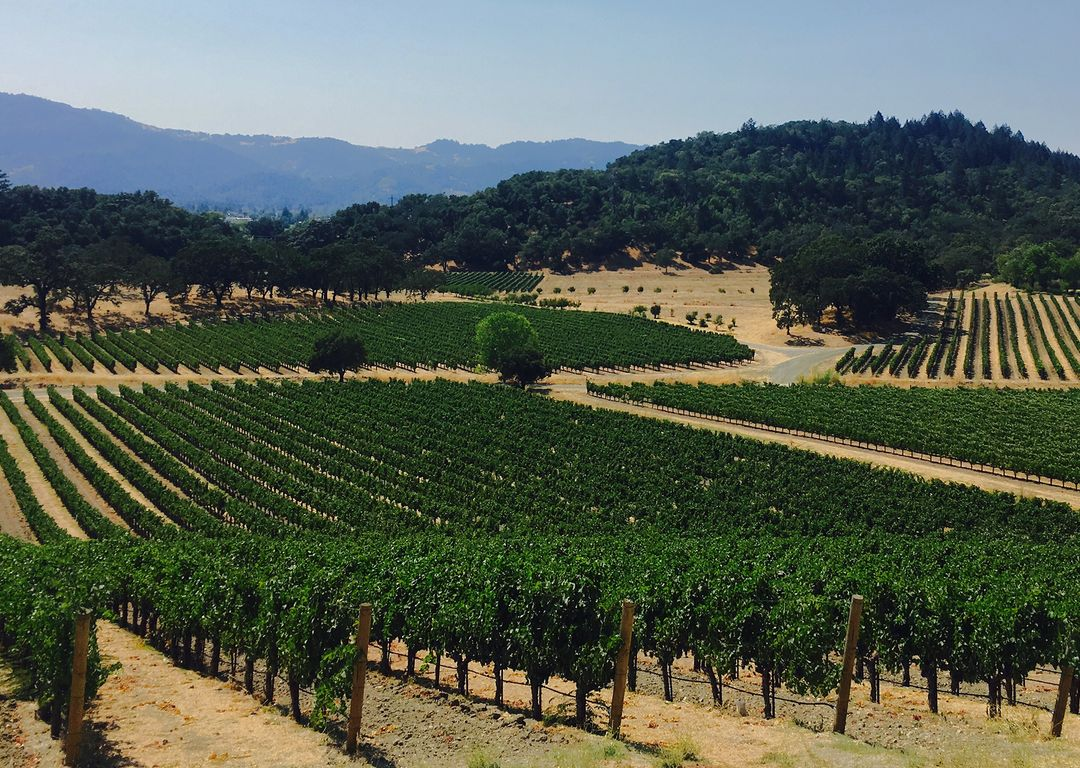
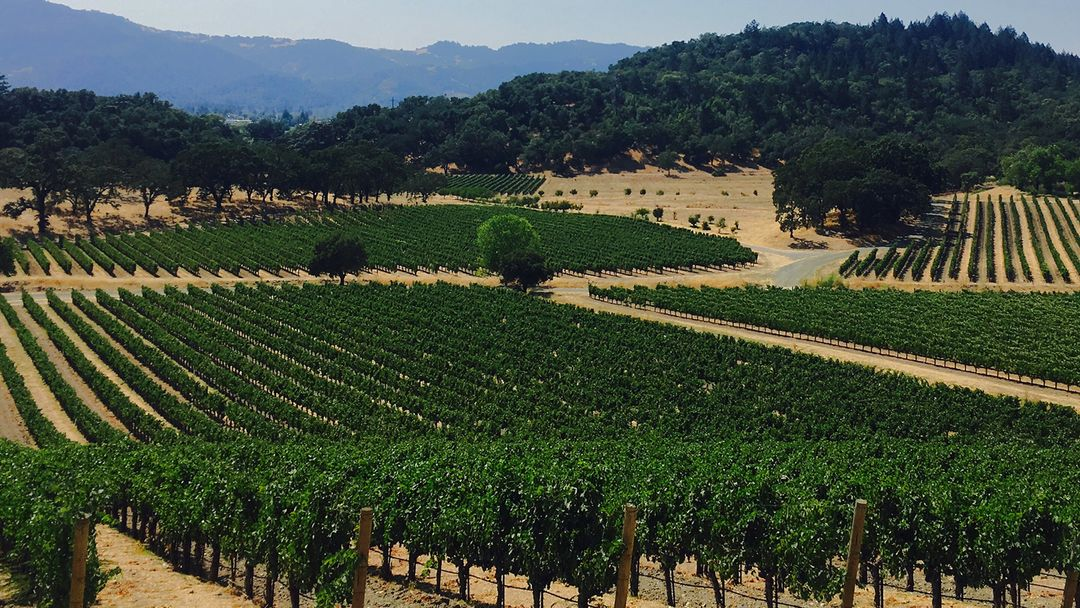
fixing image styles

diff --git a/index.html b/index.html
@@ -5,7 +5,7 @@
   <!-- Google tag (gtag.js) -->
   <script async src="https://www.googletagmanager.com/gtag/js?id=G-LWRXSNYXEN"></script>
   <script src="js/analytics.js"></script>
-  <title>GRIOT Landing Page Teaser</title>
+  <title>GRIOT</title>
   <meta content="width=device-width, initial-scale=1" name="viewport">
   <meta content="Webflow" name="generator">
   <link href="css/normalize.css" rel="stylesheet" type="text/css">

diff --git a/css/griot-landing-page-teaser.webflow.css b/css/griot-landing-page-teaser.webflow.css
@@ -261,7 +261,7 @@ label {
 
 .california {
   z-index: 0;
-  background-image: url('../images/California_1.jpg');
+  background-image: url('../images/California.jpg');
   background-position: 50% 100%;
   background-size: cover;
 }
